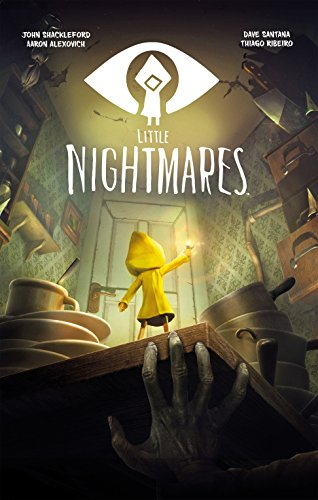
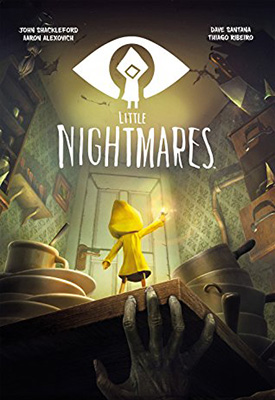
Fix image size and add styling to videogame partial

diff --git a/VideoGameLibrary/wwwroot/css/style.css b/VideoGameLibrary/wwwroot/css/style.css
@@ -1,0 +1,28 @@
+body {
+}
+
+.videogame-collection {
+    display:flex;
+    flex-wrap:wrap;
+    justify-content:space-between;
+}
+.videogame-container {
+    margin-top:2em;
+    height:400px;
+    width:275px;
+    overflow:hidden;
+    position:relative;
+}
+
+.videogame-container > img {
+    position:absolute;
+    transform: translate(-50%, -50%);
+    top: 50%;
+    left: 50%;
+    min-width: 100%;
+    min-height: 100%;
+    height: auto;
+    width: auto;
+    max-height: none;
+    max-width: none;
+}

diff --git a/VideoGameLibrary/Controllers/CollectionController.cs b/VideoGameLibrary/Controllers/CollectionController.cs
@@ -3,14 +3,29 @@ using System;
 using System.Collections.Generic;
 using System.Linq;
 using System.Threading.Tasks;
+using VideoGameLibrary.Models;
 
 namespace VideoGameLibrary.Controllers
 {
     public class CollectionController : Controller
     {
+        private static List<VideoGame> videoGameCollection = new List<VideoGame>
+        {
+            new VideoGame("/img/bioshock1.jpg", "Bioshock", "Action Horror", 2007, "M", "Steam"),
+            new VideoGame("/img/bioshock2.jpg", "Bioshock 2", "Action Horror", 2010, "M", "Steam"),
+            new VideoGame("/img/bioshockInfinite.jpg", "Bioshock Infinite", "Action", 2013, "M", "Steam"),
+            new VideoGame("/img/littleNightmares1.jpg", "Little Nightmares", "Horror", 2017, "T", "Steam"),
+            new VideoGame("/img/littleNightmares2.jpg", "Little Nightmares II", "Horror", 2021, "T", "Steam"),
+            new VideoGame("/img/portal2.jpg", "Portal 2", "Puzzle Platformer", 2011, "E", "Steam"),
+            new VideoGame("/img/superliminal.jpg", "Superliminal", "Puzzle", 2020, "E", "Steam"),
+            new VideoGame("/img/terraria.jpeg", "Terraria", "Action Adventure", 2011, "T", "Nintendo Switch"),
+            new VideoGame("/img/wizardOfLegend.webp", "Wizard of Legend", "Roguelike Indie", 2018, "E", "Steam")
+
+
+        };
         public IActionResult Index()
         {
-            return View();
+            return View(videoGameCollection);
         }
     }
 }

diff --git a/VideoGameLibrary/Models/VideoGame.cs b/VideoGameLibrary/Models/VideoGame.cs
@@ -19,6 +19,16 @@ namespace VideoGameLibrary.Models
 
 
         public VideoGame() {}
+        public VideoGame(string imgSrc, string title, string genre, int year, string esrbRating, string platform)
+        {
+            ImgSrc = imgSrc;
+            Title = title;
+            Genre = genre;
+            Year = year;
+            EsrbRating = esrbRating;
+            Platform = platform;
+  
+        }
         public VideoGame(string imgSrc, string title, string genre, int year, string esrbRating, string platform, string loanedTo, string loanDate) 
         {
             ImgSrc = imgSrc;
